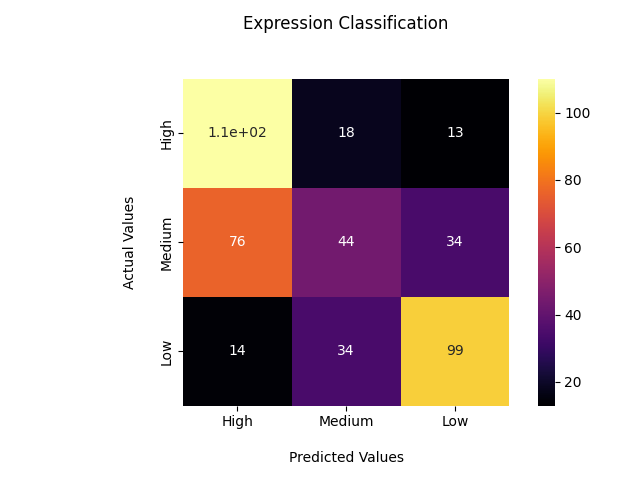
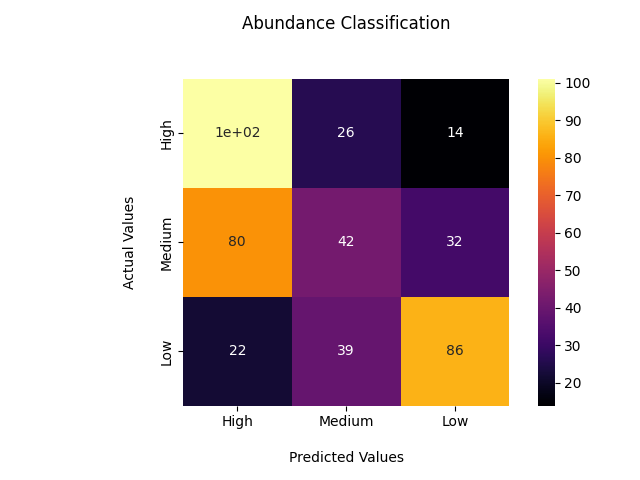
updates of reruns

diff --git a/scripts/train_binary-large.py b/scripts/train_binary-large.py
@@ -6,11 +6,11 @@ import pandas as pd
 import numpy as np
 import matplotlib.pyplot as plt
 
+import tensorflow as tf
 from tensorflow.keras.preprocessing.text import Tokenizer
 from tensorflow.keras.preprocessing.sequence import pad_sequences
-from tensorflow.keras.losses import CategoricalCrossentropy
 from scikeras.wrappers import KerasClassifier, KerasRegressor
-from keras.utils import np_utils
+#from keras.utils import np_utils
 
 from sklearn import metrics
 from sklearn.preprocessing import LabelEncoder
@@ -24,17 +24,14 @@ from skopt.callbacks import VerboseCallback
 
 from alibi.explainers import IntegratedGradients
 
-RUN = 2
+RUN=0
 
 print('Reading data...')
-df = pd.read_csv('data/ecoli_complete.csv', index_col=0)
+df = pd.read_csv('/lustre/isaac/proj/UTK0196/codon-expression-data/fullTableForTrainning/ecoli_fulltable.csv', index_col=0)
 
 print('Processing data...')
-df = helpers.add_codons_to_df(df, 'mRNA_cleaned')
-low, high = df.abundance.quantile([0.33, 0.67])
-high_l = np.where(df['abundance'] > high, 1, 0)
-low_l = np.where(df['abundance'] > low, 0, -1)
-df['sentiment'] = high_l+low_l
+df = helpers.add_codons_to_df(df, 'Sequence')
+df['sentiment'] = np.where(df['median_exp'] > np.median(df['median_exp'].values), 1, 0)
 
 MAX = max([len(elem) for elem in df['codons_cleaned']]) #get max sequence length for padding
 
@@ -45,11 +42,6 @@ y_train = df_train['sentiment'].values
 
 X_test = df_test['codons_cleaned'].values
 y_test = df_test['sentiment'].values
-
-le = LabelEncoder()
-le.fit(y_train)
-y_train_dummy = np_utils.to_categorical(le.transform(y_train))
-y_test_dummy = np_utils.to_categorical(le.transform(y_test))
 
 X_full = df['codons_cleaned'].values
 
@@ -65,26 +57,30 @@ X_train_seq = pad_sequences(X_train_seq, MAX)
 X_test_seq = pad_sequences(X_test_seq, MAX)
 X_full_seq = pad_sequences(X_full_seq, MAX)
 
+#print(len(X_full_seq))
+
+
 print('Building Model...')
+
 #param_grid = {
 #    'learning_rate' : Real(0.0001, 0.5, prior='log-uniform'),
 #    'dropout_rate' : Real(0.05, 0.5, prior='log-uniform'),
 #    'lstm_units1' : Integer(10, 20),
-#    #'lstm_units2' : Integer(2, 10),
+    #'lstm_units2' : Integer(2, 10),
 #    'neurons_dense1' : Integer(4, 64),
-#    'neurons_dense2' : Integer(2, 32),
+    #'neurons_dense2' : Integer(2, 32),
 #    'embedding_size' : Integer(4, 32)
 #}
 
 param_grid = {
     'learning_rate' : [0.0001, 0.001, 0.01, 0.1, 0.5],
-    'dropout_rate' : [0.1, 0.25],
-    'lstm_units1' : [8, 16, 32],
-    'neurons_dense1' : [4, 8, 16],
-    'embedding_size' : [8, 16, 32]
+    'dropout_rate' : [0.05, 0.1, 0.25, 0.5],
+    'lstm_units1' : [4, 8, 16, 32],
+    'neurons_dense1' : [2, 4, 8, 16],
+    'embedding_size' : [4, 8, 16, 32]
 }
 
-model = KerasClassifier(model=sentiment_model.create_model, epochs=10, verbose=1, validation_split=0.2, lstm_units1=4, lstm_units2=3, neurons_dense1=5, neurons_dense2=3, dropout_rate=0.1, embedding_size=2, max_text_len=helpers.VOCAB_SIZE, learning_rate=0.5, output_neurons=3, output_activation='softmax', loss_function=CategoricalCrossentropy())
+model = KerasClassifier(model=sentiment_model.create_model, epochs=30, verbose=1, validation_split=0.2, lstm_units1=4, lstm_units2=3, neurons_dense1=5, neurons_dense2=3, dropout_rate=0.1, embedding_size=2, max_text_len=helpers.VOCAB_SIZE, learning_rate=0.5)
 
 #grid = BayesSearchCV(
 #    estimator=model,
@@ -96,46 +92,57 @@ model = KerasClassifier(model=sentiment_model.create_model, epochs=10, verbose=1
 #)
 
 grid = GridSearchCV(
-    estimator=model,
+    estimator = model,
     param_grid=param_grid,
     cv=StratifiedKFold(n_splits=5, shuffle=True, random_state=94722).split(X_train, y_train),
     verbose=True,
     scoring='roc_auc',
-    n_jobs=-1
+    n_jobs=-1,
 )
 
-result = grid.fit(X_train_seq, y_train_dummy)
+result = grid.fit(X_train_seq, y_train)
 print('Best params: ', grid.best_params_)
 params = grid.best_params_
 
 #for i in range(len(grid.optimizer_results_)):
 #    plot_objective(grid.optimizer_results_[i])
-#    plt.savefig('images/grid/optimizer_results_multiclass_33-67_{}.png'.format(RUN))
+#    plt.savefig('images/grid/optimizer_results_binary_{}.png'.format(RUN))
 #    plt.close()
 
 print('Print predicting with best params...')
 best_model = grid.best_estimator_
-best_model.fit(X_train_seq, y_train_dummy, epochs=100)
+best_model.fit(X_train_seq, y_train, epochs=100)
 y_pred = best_model.predict(X_test_seq)
-y_pred_cat = le.inverse_transform(y_pred.argmax(1))
 
-out_array = np.array(y_pred_cat)
-out_array.tofile('results/testR-multiclass_33-67_{}.csv'.format(RUN), sep=',')
-#print()
+out_array = np.array(y_pred)
+out_array.tofile('results/testR-binary-large_{}.csv'.format(RUN), sep=',')
 
 print('Plotting...')
-graph.plot_confusion_matrix_multi(y_pred=y_pred_cat, y_actual=y_test, title='Abundance Classification', filename='images/confusion-matrix/CM-multiclass_33-67_{}.png'.format(RUN))
+graph.plot_confusion_matrix_binary(y_pred=y_pred, y_actual=y_test, title='Expression Classification', filename='images/confusion-matrix/CM-binary-large_{}.png'.format(RUN))
 
-test_loss, test_auc, test_acc, test_precision, test_recall = best_model.model_.evaluate(X_test_seq, y_test_dummy)
-print('33-67 Split Results:')
+test_loss, test_auc, test_acc, test_precision, test_recall = best_model.model_.evaluate(X_test_seq, y_test)
+print('Binary (large) Results:')
 print('Accuracy:', test_acc)
 print('Precision:', test_precision)
 print('Recall:', test_recall)
 print('AUC:', test_auc)
 print('Loss:', test_loss)
 
-#y_pred2 = y_pred.argmax(axis=1)
-#ig = IntegratedGradients(best_model.model_)
-#explanations = ig.explain(X_test_seq, target=y_pred2)
 
-#attrs = explanations.attributions
+#testing integrated gradients
+#model.fit(X_train_seq, y_train)
+#y_pred = model.predict(X_test_seq)
+#y_pred_cat = np.where(y_pred > 50, 1, 0)
+
+#X_test_seq_tf = tf.convert_to_tensor(X_test_seq, name='X_test_seq_tf')
+#y_pred_tf = tf.convert_to_tensor(y_pred, name='y_pred_tf')
+#for seq, targ in list(zip(X_test_seq, y_pred)):
+#ig = IntegratedGradients(model.model_, internal_batch_size=128)
+#explanation = ig.explain(X_test_seq[:10], target=y_pred[:10])
+#print(explanation)
+#attrs = explanation.attributions
+
+#vals = attrs.sum(axis=2)
+#print(len(X_test_seq), len(vals))
+#print(vals)
+

diff --git a/scripts/train_multiclass-large.py b/scripts/train_multiclass-large.py
@@ -24,16 +24,16 @@ from skopt.callbacks import VerboseCallback
 
 from alibi.explainers import IntegratedGradients
 
-RUN = 2
+RUN = 3
 
 print('Reading data...')
-df = pd.read_csv('data/ecoli_complete.csv', index_col=0)
+df = pd.read_csv('/lustre/isaac/proj/UTK0196/codon-expression-data/fullTableForTrainning/ecoli_fulltable.csv', index_col=0, nrows=2000)
 
 print('Processing data...')
-df = helpers.add_codons_to_df(df, 'mRNA_cleaned')
-low, high = df.abundance.quantile([0.33, 0.67])
-high_l = np.where(df['abundance'] > high, 1, 0)
-low_l = np.where(df['abundance'] > low, 0, -1)
+df = helpers.add_codons_to_df(df, 'Sequence')
+low, high = df.median_exp.quantile([0.33, 0.67])
+high_l = np.where(df['median_exp'] > high, 1, 0)
+low_l = np.where(df['median_exp'] > low, 0, -1)
 df['sentiment'] = high_l+low_l
 
 MAX = max([len(elem) for elem in df['codons_cleaned']]) #get max sequence length for padding
@@ -66,38 +66,21 @@ X_test_seq = pad_sequences(X_test_seq, MAX)
 X_full_seq = pad_sequences(X_full_seq, MAX)
 
 print('Building Model...')
-#param_grid = {
-#    'learning_rate' : Real(0.0001, 0.5, prior='log-uniform'),
-#    'dropout_rate' : Real(0.05, 0.5, prior='log-uniform'),
-#    'lstm_units1' : Integer(10, 20),
-#    #'lstm_units2' : Integer(2, 10),
-#    'neurons_dense1' : Integer(4, 64),
-#    'neurons_dense2' : Integer(2, 32),
-#    'embedding_size' : Integer(4, 32)
-#}
-
 param_grid = {
-    'learning_rate' : [0.0001, 0.001, 0.01, 0.1, 0.5],
-    'dropout_rate' : [0.1, 0.25],
-    'lstm_units1' : [8, 16, 32],
-    'neurons_dense1' : [4, 8, 16],
-    'embedding_size' : [8, 16, 32]
+    'learning_rate' : Real(0.0001, 0.5, prior='log-uniform'),
+    'dropout_rate' : Real(0.05, 0.5, prior='log-uniform'),
+    'lstm_units1' : Integer(10, 20),
+    #'lstm_units2' : Integer(2, 10),
+    'neurons_dense1' : Integer(4, 64),
+    'neurons_dense2' : Integer(2, 32),
+    'embedding_size' : Integer(4, 32)
 }
 
-model = KerasClassifier(model=sentiment_model.create_model, epochs=10, verbose=1, validation_split=0.2, lstm_units1=4, lstm_units2=3, neurons_dense1=5, neurons_dense2=3, dropout_rate=0.1, embedding_size=2, max_text_len=helpers.VOCAB_SIZE, learning_rate=0.5, output_neurons=3, output_activation='softmax', loss_function=CategoricalCrossentropy())
+model = KerasClassifier(model=sentiment_model.create_model, epochs=30, verbose=1, validation_split=0.2, lstm_units1=4, lstm_units2=3, neurons_dense1=5, neurons_dense2=3, dropout_rate=0.1, embedding_size=2, max_text_len=helpers.VOCAB_SIZE, learning_rate=0.5, output_neurons=3, output_activation='softmax', loss_function=CategoricalCrossentropy())
 
-#grid = BayesSearchCV(
-#    estimator=model,
-#    search_spaces=param_grid,
-#    cv=StratifiedKFold(n_splits=5, shuffle=True, random_state=94722).split(X_train, y_train),
-#    verbose=True,
-#    scoring='roc_auc',
-#    n_jobs=8
-#)
-
-grid = GridSearchCV(
+grid = BayesSearchCV(
     estimator=model,
-    param_grid=param_grid,
+    search_spaces=param_grid,
     cv=StratifiedKFold(n_splits=5, shuffle=True, random_state=94722).split(X_train, y_train),
     verbose=True,
     scoring='roc_auc',
@@ -108,14 +91,13 @@ result = grid.fit(X_train_seq, y_train_dummy)
 print('Best params: ', grid.best_params_)
 params = grid.best_params_
 
-#for i in range(len(grid.optimizer_results_)):
-#    plot_objective(grid.optimizer_results_[i])
-#    plt.savefig('images/grid/optimizer_results_multiclass_33-67_{}.png'.format(RUN))
-#    plt.close()
+for i in range(len(grid.optimizer_results_)):
+    plot_objective(grid.optimizer_results_[i])
+    plt.savefig('images/grid/optimizer_results_multiclass_33-67_{}.png'.format(RUN))
+    plt.close()
 
 print('Print predicting with best params...')
 best_model = grid.best_estimator_
-best_model.fit(X_train_seq, y_train_dummy, epochs=100)
 y_pred = best_model.predict(X_test_seq)
 y_pred_cat = le.inverse_transform(y_pred.argmax(1))
 
@@ -124,7 +106,7 @@ out_array.tofile('results/testR-multiclass_33-67_{}.csv'.format(RUN), sep=',')
 #print()
 
 print('Plotting...')
-graph.plot_confusion_matrix_multi(y_pred=y_pred_cat, y_actual=y_test, title='Abundance Classification', filename='images/confusion-matrix/CM-multiclass_33-67_{}.png'.format(RUN))
+graph.plot_confusion_matrix_multi(y_pred=y_pred_cat, y_actual=y_test, title='Expression Classification', filename='images/confusion-matrix/CM-multiclass_33-67_{}.png'.format(RUN))
 
 test_loss, test_auc, test_acc, test_precision, test_recall = best_model.model_.evaluate(X_test_seq, y_test_dummy)
 print('33-67 Split Results:')

diff --git a/scripts/train_binary.py b/scripts/train_binary.py
@@ -24,7 +24,7 @@ from skopt.callbacks import VerboseCallback
 
 from alibi.explainers import IntegratedGradients
 
-RUN=2
+RUN=3
 
 print('Reading data...')
 df = pd.read_csv('data/ecoli_complete.csv', index_col=0)
@@ -57,47 +57,67 @@ X_train_seq = pad_sequences(X_train_seq, MAX)
 X_test_seq = pad_sequences(X_test_seq, MAX)
 X_full_seq = pad_sequences(X_full_seq, MAX)
 
+print(X_full_seq)
+
 print('Building Model...')
 
+#param_grid = {
+#   'learning_rate' : Real(0.0001, 0.5, prior='log-uniform'),
+#    'dropout_rate' : Real(0.05, 0.5, prior='log-uniform'),
+#    'lstm_units1' : Integer(10, 20),
+#    #'lstm_units2' : Integer(2, 10),
+#    'neurons_dense1' : Integer(4, 64),
+#    'neurons_dense2' : Integer(2, 32),
+#    'embedding_size' : Integer(4, 32)
+#}
+
 param_grid = {
-    'learning_rate' : Real(0.0001, 0.5, prior='log-uniform'),
-    'dropout_rate' : Real(0.05, 0.5, prior='log-uniform'),
-    'lstm_units1' : Integer(10, 20),
-    #'lstm_units2' : Integer(2, 10),
-    'neurons_dense1' : Integer(4, 64),
-    'neurons_dense2' : Integer(2, 32),
-    'embedding_size' : Integer(4, 32)
+    'learning_rate' : [0.0001, 0.001, 0.01, 0.1, 0.5],
+    'dropout_rate' : [0.1, 0.25],
+    'lstm_units1' : [8, 16, 32],
+    'neurons_dense1' : [4, 8, 16],
+    'embedding_size' : [8, 16, 32]
 }
 
-model = KerasClassifier(model=sentiment_model.create_model, epochs=30, verbose=1, validation_split=0.2, lstm_units1=4, lstm_units2=3, neurons_dense1=5, neurons_dense2=3, dropout_rate=0.1, embedding_size=2, max_text_len=helpers.VOCAB_SIZE, learning_rate=0.5)
+model = KerasClassifier(model=sentiment_model.create_model, epochs=10, verbose=1, validation_split=0.2, lstm_units1=4, lstm_units2=3, neurons_dense1=5, neurons_dense2=3, dropout_rate=0.1, embedding_size=2, max_text_len=helpers.VOCAB_SIZE, learning_rate=0.5)
 
-grid = BayesSearchCV(
+#grid = BayesSearchCV(
+#    estimator=model,
+#    search_spaces=param_grid,
+#    cv=StratifiedKFold(n_splits=5, shuffle=True, random_state=94722).split(X_train, y_train),
+#    verbose=True,
+#    scoring='roc_auc',
+#    n_jobs=8
+#)
+
+grid = GridSearchCV(
     estimator=model,
-    search_spaces=param_grid,
+    param_grid=param_grid,
     cv=StratifiedKFold(n_splits=5, shuffle=True, random_state=94722).split(X_train, y_train),
     verbose=True,
     scoring='roc_auc',
-    n_jobs=8
+    n_jobs=-1
 )
 
 result = grid.fit(X_train_seq, y_train)
 print('Best params: ', grid.best_params_)
 params = grid.best_params_
 
-for i in range(len(grid.optimizer_results_)):
-    plot_objective(grid.optimizer_results_[i])
-    plt.savefig('images/grid/optimizer_results_binary_{}.png'.format(RUN))
-    plt.close()
+#for i in range(len(grid.optimizer_results_)):
+#    plot_objective(grid.optimizer_results_[i])
+#    plt.savefig('images/grid/optimizer_results_binary_{}.png'.format(RUN))
+#    plt.close()
 
 print('Print predicting with best params...')
 best_model = grid.best_estimator_
+best_model.fit(X_train_seq, y_train, epochs=100)
 y_pred = best_model.predict(X_test_seq)
 
 out_array = np.array(y_pred)
 out_array.tofile('results/testR-binary_{}.csv'.format(RUN), sep=',')
 
 print('Plotting...')
-graph.plot_confusion_matrix_binary(y_pred=y_pred, y_actual=y_test, title='Expression Classification', filename='images/confusion-matrix/CM-binary_{}.png'.format(RUN))
+graph.plot_confusion_matrix_binary(y_pred=y_pred, y_actual=y_test, title='Abundance Classification', filename='images/confusion-matrix/CM-binary_{}.png'.format(RUN))
 
 test_loss, test_auc, test_acc, test_precision, test_recall = best_model.model_.evaluate(X_test_seq, y_test)
 print('Binary Results:')
@@ -124,3 +144,4 @@ print('Loss:', test_loss)
 #vals = attrs.sum(axis=2)
 #print(len(X_test_seq), len(vals))
 #print(vals)
+

diff --git a/scripts/get_misclassified.py b/scripts/get_misclassified.py
@@ -1,0 +1,26 @@
+import pandas as pd
+import numpy as np
+from sklearn.model_selection import train_test_split
+import helpers
+
+df = pd.read_csv('data/ecoli_complete.csv')
+seq = np.fromfile('results/testR-binary_1.csv', sep=',')
+
+df = helpers.add_codons_to_df(df, 'mRNA_cleaned')
+df['sentiment'] = np.where(df['abundance'] > np.median(df['abundance'].values), 1, 0)
+
+df_train, df_test = train_test_split(df, test_size=0.2, random_state=62835) #save 20% for testing
+
+#print(df_test.columns)
+#print(seq)
+out_df = pd.DataFrame()
+out_df['gene'] = df_test['Gene']
+out_df['y_true'] = df_test['sentiment']
+out_df['y_pred'] = seq
+
+out_df[out_df['y_true'] != out_df['y_pred']].to_csv('results/binary-test_misclassified_1.csv')
+#out_df['misclass'] = np.where(out_df['y_true'] != out_df['y_pred'], 1, 0)
+#out_df['confidence_score'] = df_test['confidence_score']
+
+#print(np.median(out_df.loc[out_df['misclass'] == 1, 'confidence_score']))
+#print(np.median(out_df.loc[out_df['misclass'] == 0, 'confidence_score']))

diff --git a/scripts/sentiment_model.py b/scripts/sentiment_model.py
@@ -19,8 +19,8 @@ def create_model(lstm_units1=4, lstm_units2=3, neurons_dense1=5, neurons_dense2=
     #model.add(layers.LSTM(units=lstm_units2, return_state=True, return_sequences=False))
     model.add(layers.Dense(neurons_dense1, activation="relu"))
     model.add(layers.Dropout(dropout_rate))
-    model.add(layers.Dense(neurons_dense2, activation="relu"))
-    model.add(layers.Dropout(dropout_rate))
+    #model.add(layers.Dense(neurons_dense2, activation="relu"))
+    #model.add(layers.Dropout(dropout_rate))
 
     model.add(layers.Dense(output_neurons, activation=output_activation))
 
